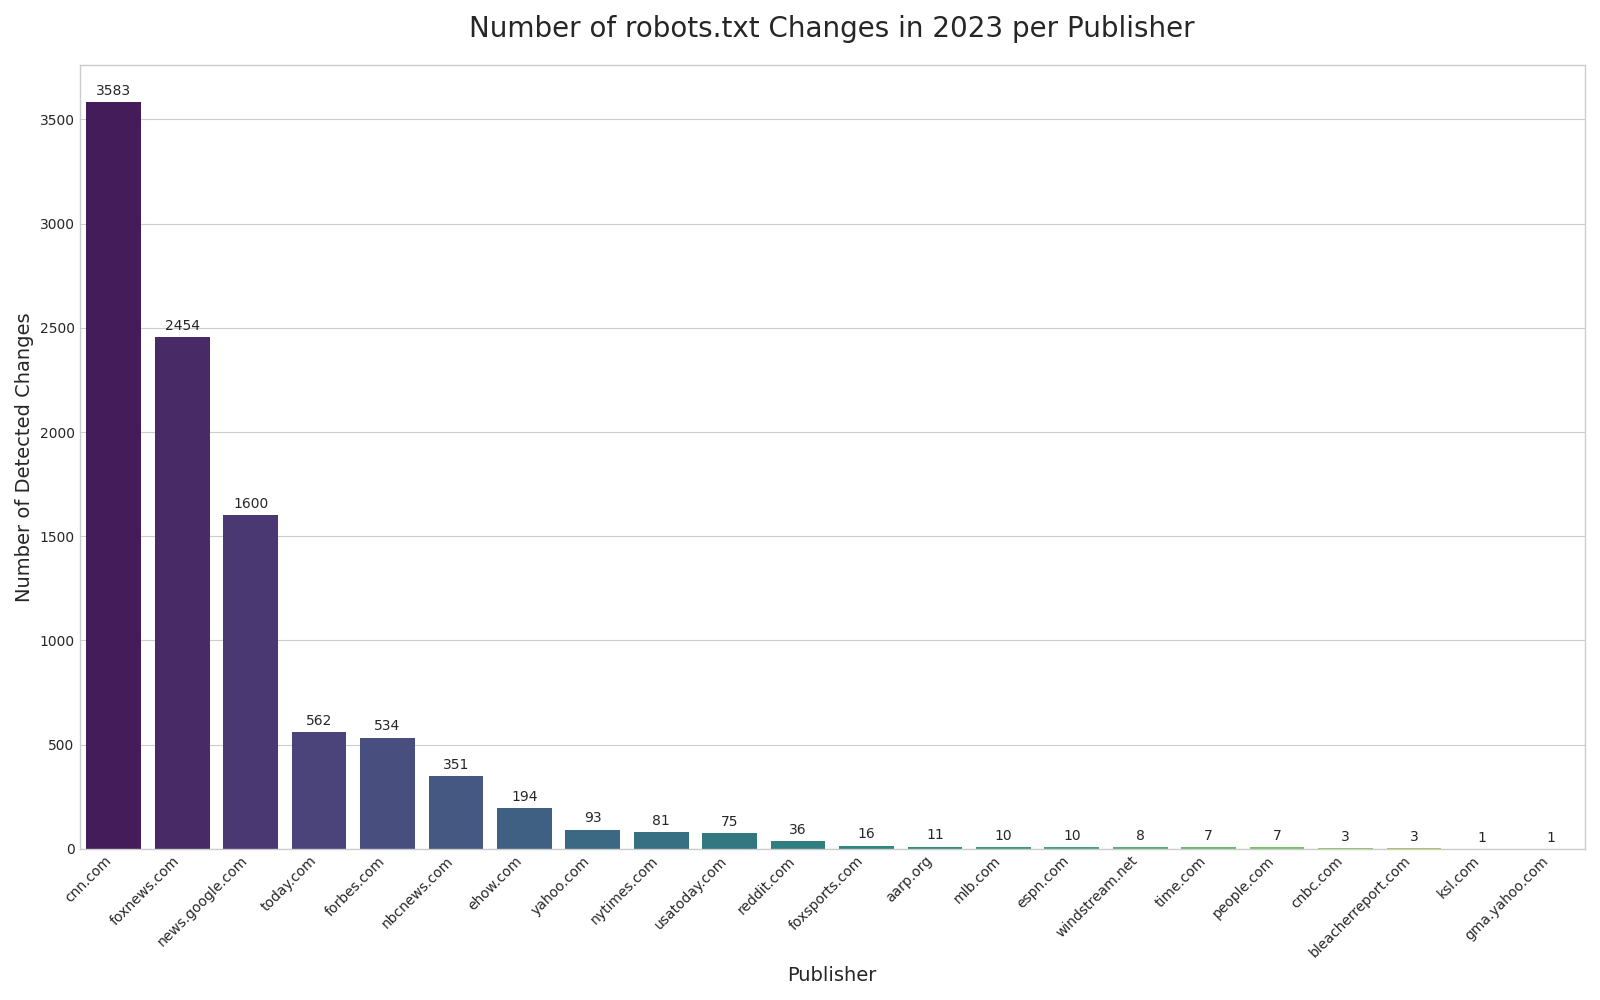
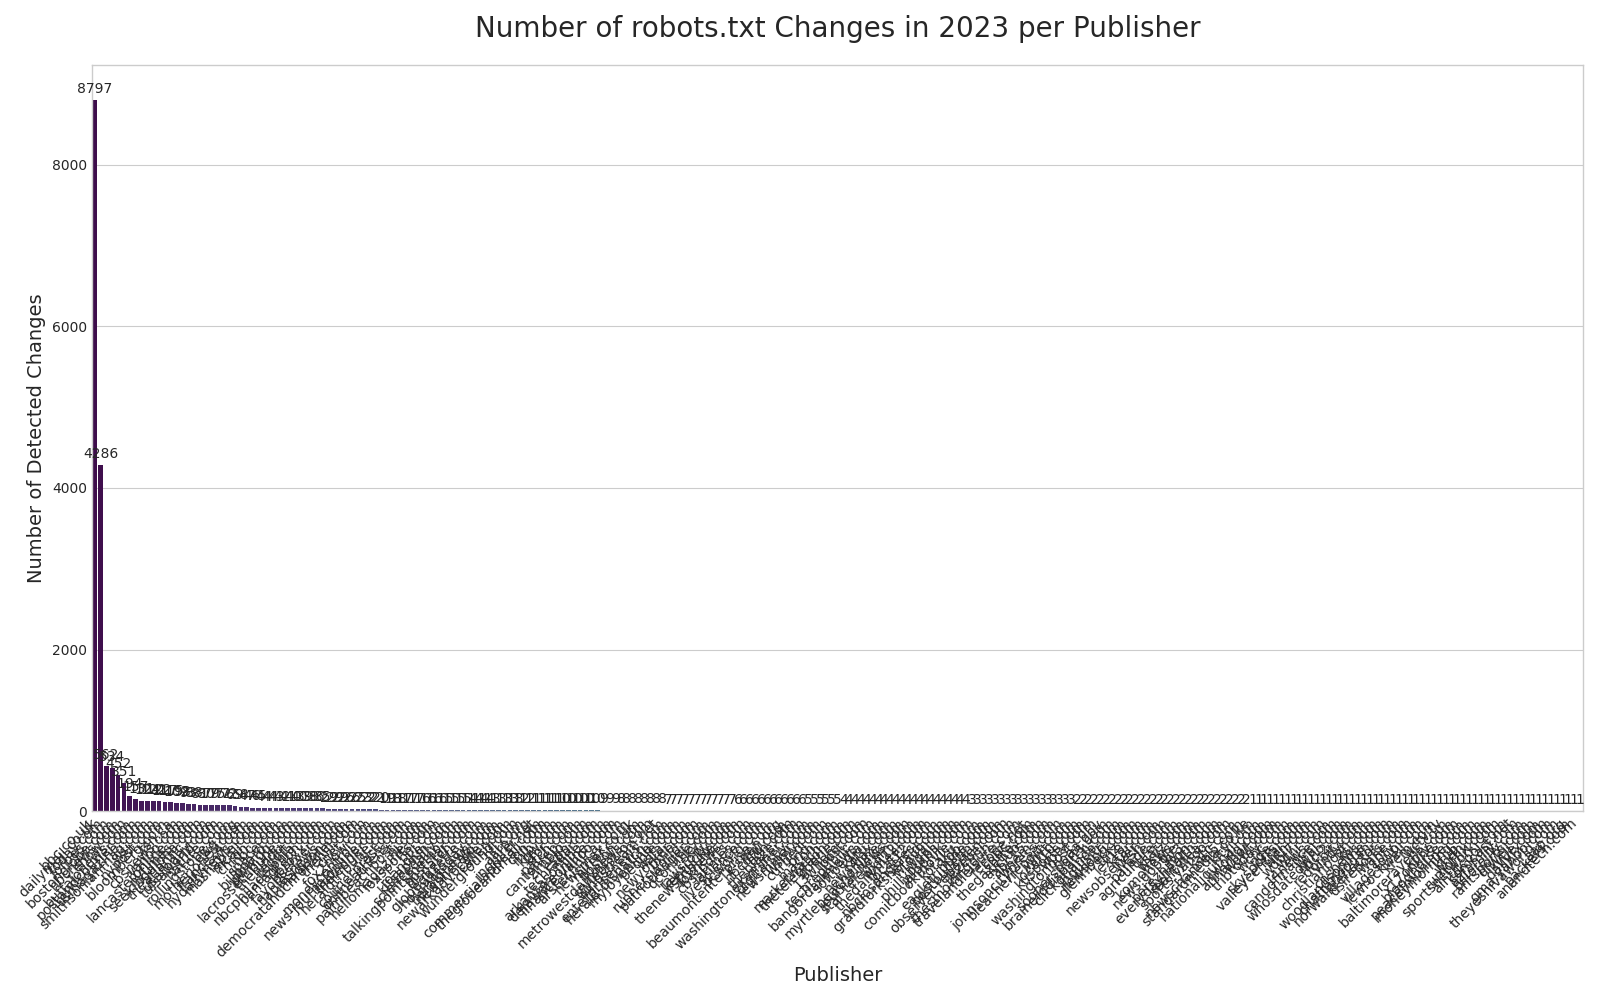
visualizations on 2023 and 2024 data)

Changed region(s): [[0.0, 0.062, 1.0, 0.961], [0.2812, 0.0, 0.75, 0.062], [0.5, 0.961, 0.5625, 0.992]]

diff --git a/create_graph.py b/create_graph.py
@@ -3,82 +3,138 @@ import json
 import matplotlib.pyplot as plt
 import seaborn as sns
 import pandas as pd
+from collections import defaultdict
+from datetime import datetime
 
-def analyze_timeline_files(root_dir):
+def parse_bots_file(filepath="bots.txt"):
     """
-    Finds all timeline_2023.json files, counts the changes,
-    and returns a dictionary of publisher -> change_count.
+    Parses the bots.txt file to categorize bots into 'search' and 'genai'.
+    Returns two sets of bot names for fast lookups.
     """
-    publisher_changes = {}
+    search_bots, genai_bots = set(), set()
+    current_category = None
+    try:
+        with open(filepath, 'r', encoding='utf-8') as f:
+            for line in f:
+                line = line.strip()
+                if "Search Engine Crawlers" in line:
+                    current_category = 'search'
+                elif "Generative AI Crawlers" in line:
+                    current_category = 'genai'
+                elif line.startswith("User-agent:"):
+                    bot_name = line.replace("User-agent:", "").strip()
+                    if current_category == 'search':
+                        search_bots.add(bot_name)
+                    elif current_category == 'genai':
+                        genai_bots.add(bot_name)
+    except FileNotFoundError:
+        print(f"Warning: '{filepath}' not found. Cannot categorize bots.")
+    return search_bots, genai_bots
+
+def analyze_timelines_by_month(root_dir, search_bots, genai_bots, years):
+    """
+    Aggregates the number of unique publishers making changes by month and bot category for given years.
+    """
+    # Structure: { "YYYY-MM": {"search": {publisher1, publisher2}, "genai": {publisher3}} }
+    monthly_changes = defaultdict(lambda: defaultdict(set))
 
     for publisher_dir in os.listdir(root_dir):
         publisher_path = os.path.join(root_dir, publisher_dir)
-        if os.path.isdir(publisher_path):
-            timeline_path = os.path.join(publisher_path, "2023", "timeline_2023.json")
-            
-            if os.path.exists(timeline_path):
-                try:
-                    with open(timeline_path, 'r', encoding='utf-8') as f:
-                        timeline_data = json.load(f)
-                        # Each entry in the list is a recorded change.
-                        num_changes = len(timeline_data)
-                        publisher_changes[publisher_dir] = num_changes
-                except json.JSONDecodeError:
-                    print(f"Warning: Could not decode JSON from {timeline_path}")
-                except Exception as e:
-                    print(f"Error reading file {timeline_path}: {e}")
+        if not os.path.isdir(publisher_path):
+            continue
 
-    return publisher_changes
+        for year in years:
+            timeline_path = os.path.join(publisher_path, year, f"timeline_{year}.json")
+            if not os.path.exists(timeline_path):
+                continue
 
-def create_change_graph(data, output_filename="robots_txt_changes_2023.png"):
+            try:
+                with open(timeline_path, 'r', encoding='utf-8') as f:
+                    timeline_data = json.load(f)
+                    for change in timeline_data:
+                        if "initial_content" in change:
+                            continue
+
+                        ts = change.get("timestamp")
+                        if not ts or len(ts) < 6:
+                            continue
+                        month_key = f"{ts[:4]}-{ts[4:6]}"
+
+                        affected_agents = set(change.get("agents_added", []))
+                        for rule_change in change.get("rule_changes", []):
+                            affected_agents.add(rule_change.get("user_agent"))
+
+                        is_genai_change = any(agent in genai_bots for agent in affected_agents)
+                        is_search_change = any(agent in search_bots for agent in affected_agents)
+
+                        if is_genai_change:
+                            monthly_changes[month_key]['genai'].add(publisher_dir)
+                        elif is_search_change:
+                            monthly_changes[month_key]['search'].add(publisher_dir)
+
+            except (json.JSONDecodeError, KeyError) as e:
+                print(f"Warning: Could not process file {timeline_path}. Error: {e}")
+
+    return monthly_changes
+
+def create_monthly_trend_graph(data, years, output_filename_template="robots_txt_monthly_trends_{years}.png"):
     """
-    Creates and saves a bar chart of robots.txt changes per publisher.
+    Creates a stacked bar chart of unique publishers making changes by month.
     """
     if not data:
         print("No data to plot.")
         return
 
-    # Convert to a pandas DataFrame for easier plotting
-    df = pd.DataFrame(list(data.items()), columns=['Publisher', 'NumberOfChanges'])
-    
-    # Sort by number of changes for a cleaner look
-    df = df.sort_values('NumberOfChanges', ascending=False)
+    # Convert the sets of publishers to counts for plotting
+    plot_data = {
+        month: {category: len(publishers) for category, publishers in values.items()}
+        for month, values in data.items()
+    }
 
-    # Create the plot
+    df = pd.DataFrame.from_dict(plot_data, orient='index').fillna(0)
+    df.index = pd.to_datetime(df.index)
+    df = df.sort_index()
+    
+    start_year = min(years)
+    end_year = max(years)
+    all_months = pd.date_range(start=f'{start_year}-01-01', end=f'{end_year}-12-01', freq='MS')
+    df = df.reindex(all_months, fill_value=0)
+    df.index = df.index.strftime('%Y-%m')
+
     plt.style.use('seaborn-v0_8-whitegrid')
-    plt.figure(figsize=(16, 10))
-    
-    # Updated barplot call to address the FutureWarning
-    ax = sns.barplot(x='Publisher', y='NumberOfChanges', data=df, hue='Publisher', palette='viridis', legend=False)
+    fig, ax = plt.subplots(figsize=(16, 10))
 
-    ax.set_title('Number of robots.txt Changes in 2023 per Publisher', fontsize=20, pad=20)
-    ax.set_xlabel('Publisher', fontsize=14)
-    ax.set_ylabel('Number of Detected Changes', fontsize=14)
-    
-    # Rotate labels to prevent overlap
-    plt.xticks(rotation=45, ha='right')
-    
-    # Add labels on top of bars
+    df.plot(kind='bar', stacked=True, ax=ax, color=['#4c72b0', '#dd8452'], width=0.8)
+
+    title_years = f"{start_year}-{end_year}" if start_year != end_year else start_year
+    ax.set_title(f'Unique Publishers Changing robots.txt for Search vs. GenAI Bots ({title_years})', fontsize=20, pad=20)
+    ax.set_xlabel('Month', fontsize=14)
+    ax.set_ylabel('Number of Publishers Making Changes', fontsize=14)
+    ax.tick_params(axis='x', rotation=45)
+    ax.legend(title='Bot Category')
+
     for container in ax.containers:
-        ax.bar_label(container, fmt='%d', fontsize=10, padding=3)
+        ax.bar_label(container, label_type='center', fmt='%d', fontsize=10, color='white', weight='bold')
 
     plt.tight_layout()
-    
-    # Save the figure
+    output_filename = output_filename_template.format(years=title_years)
     plt.savefig(output_filename)
     print(f"Graph saved to {output_filename}")
-    
-    # The plot is saved to a file, so we don't need to try to show it in a non-interactive environment.
-    # plt.show()
 
 
 if __name__ == "__main__":
-    # The script assumes it's run from the root of the 'waybackrobots' directory
     publishers_root = "publishers"
+    analysis_years = ["2023", "2024"]
     
     if not os.path.isdir(publishers_root):
         print(f"Error: Directory '{publishers_root}' not found.")
         print("Please run this script from the root of your 'waybackrobots' project directory.")
     else:
-        change_data = analyze_timeline_files(publishers_root)
-        create_change_graph(change_data)
+        print("Parsing bot categories from bots.txt...")
+        search_bots, genai_bots = parse_bots_file()
+        
+        print(f"Analyzing timeline files for {analysis_years} across all publishers...")
+        monthly_data = analyze_timelines_by_month(publishers_root, search_bots, genai_bots, analysis_years)
+        
+        print("Creating monthly trend graph...")
+        create_monthly_trend_graph(monthly_data, analysis_years)

diff --git a/main.go b/main.go
@@ -38,7 +38,7 @@ func main() {
 	timeline := flag.Bool("timeline", false, "show a timeline of changes in robots.txt")
 	year := flag.Int("year", 0, "specify a year to fetch timeline changes for (e.g., 2023). Overrides -limit and -recent.")
 	outputDir := flag.String("output", "", "directory to save JSON and raw .txt output")
-	concurrentDomains := flag.Int("concurrent", 5, "number of domains to process concurrently")
+	concurrentDomains := flag.Int("concurrent", 10, "number of domains to process concurrently")
 	flag.Parse()
 
 	var urls []string
